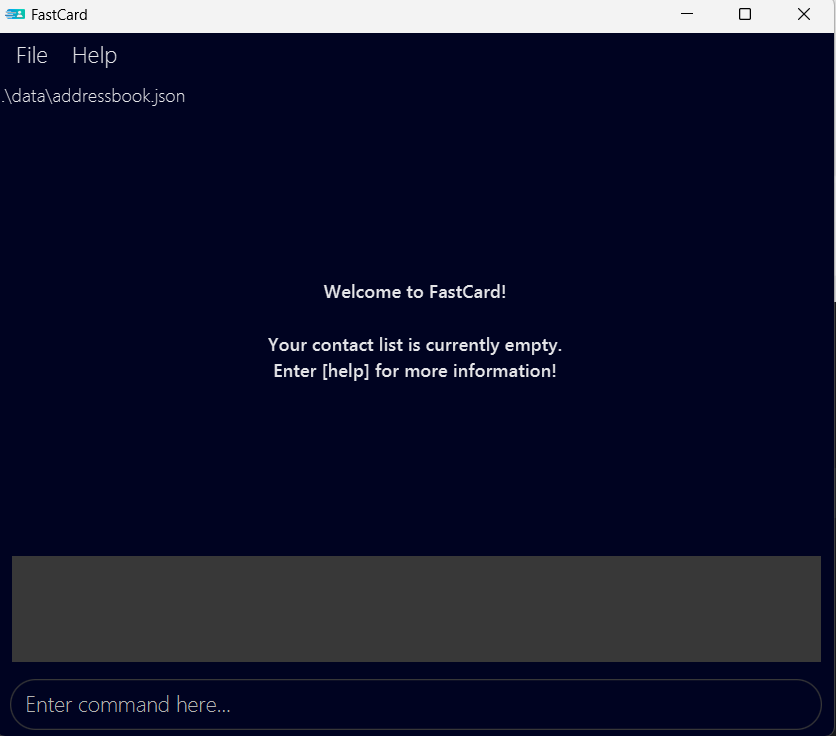
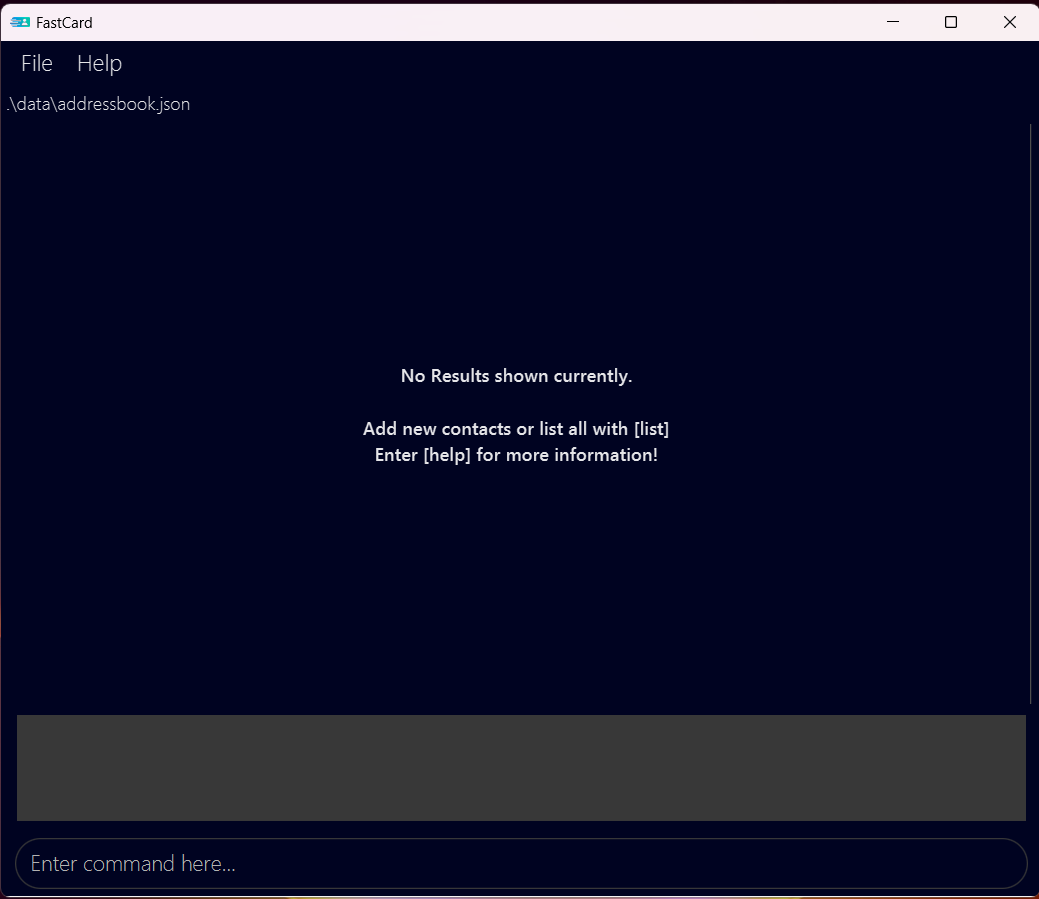
Modify Empty List message to be more general

Changed region(s): [[0.0, 0.0, 1.0, 1.0], [0.311, 0.375, 0.6842, 0.5312], [0.0, 0.0625, 0.2177, 0.1562]]

diff --git a/src/main/java/seedu/address/ui/PersonListPanel.java b/src/main/java/seedu/address/ui/PersonListPanel.java
@@ -30,8 +30,8 @@ public class PersonListPanel extends UiPart<Region> {
         personListView.setMouseTransparent(true);
         personListView.setCellFactory(listView -> new PersonListViewCell());
 
-        Label emptyListMessage = new Label("Welcome to FastCard!\n\n"
-                + "Your contact list is currently empty."
+        Label emptyListMessage = new Label("No Results shown currently."
+                + "\n\nAdd new contacts or list all with [list]"
                 + "\nEnter [help] for more information!"
         );
         emptyListMessage.getStyleClass().add("emptyListMessage");
